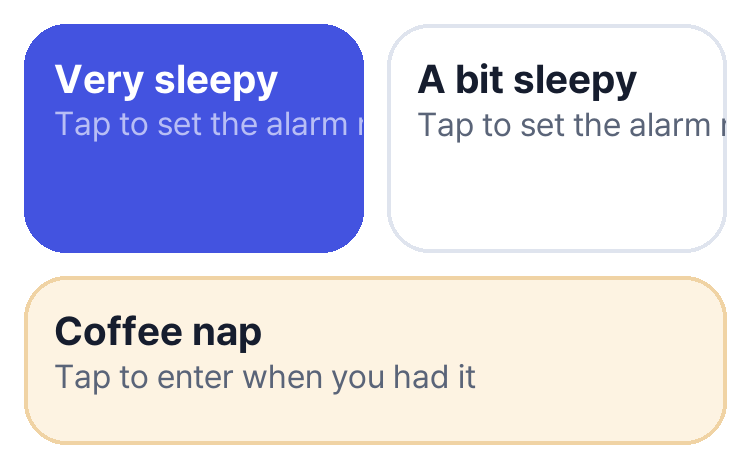
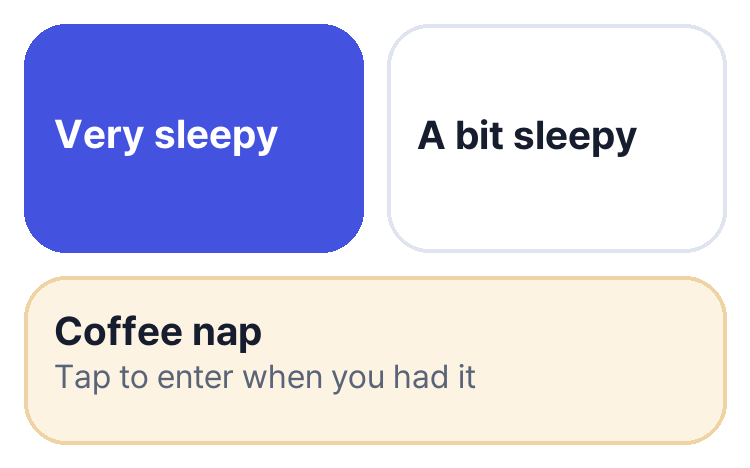
feat: simplify widget labels and hints
- M(4x2)/L(4x3) 위젯의 fast/slow 버튼에서 힌트 텍스트 제거, 제목만 남김.
  실측(Pretendard 11sp 기준 버튼 텍스트 가용폭 93dp)으로 기존 힌트가
  129dp라 항상 잘렸던 문제 해결. S(단독 버튼, 가용폭 144dp)와 L의 커피
  버튼(단독 풀폭, 214dp — 동작이 "시각 입력"이라 설명 필요)은 힌트 유지.
  widget_tap_hint_nap/coffee 문자열 키는 S/L에서 계속 쓰여 고아 안 됨.
- 위젯 3종 이름을 옛 모드명("바로 낮잠"/"2가지"/"3가지") 대신 버튼 개수
  기준("1/2/3버튼 위젯")으로 통일 — previewLayout이 실제 버튼을 보여주므로
  이름은 "어느 크기인지"만 알려주면 충분하다는 판단.
- previewImage PNG(assets/widget-previews)를 M/L 힌트 제거된 모습으로
  재생성, REVIEW_NEEDED.md의 영어 라벨 갱신.

실기기(Galaxy S24+) 검증: 위젯 선택 화면에서 새 라벨 3종 확인, M/L
미리보기가 힌트 없이 제목만 중앙 정렬된 모습으로 렌더링됨. M 위젯을
실제 홈 화면에 배치해 텍스트 잘림 없음 확인, 버튼 탭 → 앱이 열리고
알람이 즉시 예약(수면 화면까지 정상 진입)되는 것까지 회귀 없음 확인.

diff --git a/plugins/withHomeScreenWidgets.js b/plugins/withHomeScreenWidgets.js
@@ -104,8 +104,23 @@ function writeDrawables(resDir) {
 // JS(latency 설정)에 있어 네이티브 위젯 얼굴에서 그대로 보여줄 수 없다. 스코프 결정상
 // "잔여시간 표시 없음"이라 숫자 없는 고정 안내 문구로 대체했다 — REVIEW_NEEDED 참고).
 
+// detailRes가 null이면 힌트 TextView 자체를 생략한다 — M/L처럼 버튼이 좁아
+// 힌트가 잘리거나(실측: M/L 버튼 텍스트 가용폭 93dp인데 기존 힌트는 129dp) 버튼이
+// 2~3개라 같은 문구가 반복돼 노이즈가 되는 경우(사용자 지시). 제목만 남기면
+// gravity="center_vertical"이 남은 TextView 하나를 그대로 세로 중앙 정렬한다.
 function napButton(id, bg, titleColor, detailColor, titleRes, detailRes, weightWrap, marginEndDp = 0) {
   const marginXml = marginEndDp ? `\n            android:layout_marginEnd="${marginEndDp}dp"` : '';
+  const detailXml = detailRes
+    ? `
+            <TextView
+                android:layout_width="match_parent"
+                android:layout_height="wrap_content"
+                android:layout_marginTop="2dp"
+                android:text="@string/${detailRes}"
+                android:textColor="${detailColor}"
+                android:textSize="11sp"
+                android:maxLines="1" />`
+    : '';
   return `        <LinearLayout
             android:id="@+id/${id}"
             android:layout_width="0dp"
@@ -122,23 +137,22 @@ function napButton(id, bg, titleColor, detailColor, titleRes, detailRes, weightW
                 android:textColor="${titleColor}"
                 android:textSize="13.5sp"
                 android:textStyle="bold"
-                android:maxLines="2" />
-            <TextView
-                android:layout_width="match_parent"
-                android:layout_height="wrap_content"
-                android:layout_marginTop="2dp"
-                android:text="@string/${detailRes}"
-                android:textColor="${detailColor}"
-                android:textSize="11sp"
-                android:maxLines="1" />
+                android:maxLines="2" />${detailXml}
         </LinearLayout>
 `;
 }
 
+// S 전용 — 단독 버튼이라 여백이 있어(가용폭 144dp > 힌트 129dp) 힌트를 그대로 유지.
 const FAST_BTN = (id, weight, marginEndDp = 0) =>
   napButton(id, 'widget_btn_primary_bg', '#FFFFFF', COLOR.onDarkFaint, 'widget_fast_title', 'widget_tap_hint_nap', weight, marginEndDp);
+// M/L 전용 — 힌트 없음(버튼 2~3개가 나란히 있어 좁고, previewLayout이 실제 버튼
+// 모습을 이미 보여주므로 "탭하면 시작"은 대체로 자명하다는 판단, 사용자 지시).
+const FAST_BTN_COMPACT = (id, weight, marginEndDp = 0) =>
+  napButton(id, 'widget_btn_primary_bg', '#FFFFFF', COLOR.onDarkFaint, 'widget_fast_title', null, weight, marginEndDp);
 const SLOW_BTN = (id, weight) =>
-  napButton(id, 'widget_btn_secondary_bg', COLOR.ink, COLOR.inkSoft, 'widget_slow_title', 'widget_tap_hint_nap', weight);
+  napButton(id, 'widget_btn_secondary_bg', COLOR.ink, COLOR.inkSoft, 'widget_slow_title', null, weight);
+// L 전용 — 단독 풀폭 버튼(가용폭 214dp)이라 안 잘리고, 동작이 "탭=시각 입력"이라
+// 다른 버튼과 달리 설명이 필요해 힌트를 유지.
 const COFFEE_BTN = (id, weight) =>
   napButton(id, 'widget_btn_coffee_bg', COLOR.ink, COLOR.inkSoft, 'widget_coffee_title', 'widget_tap_hint_coffee', weight);
 
@@ -169,7 +183,7 @@ function buildLayoutM() {
         android:layout_width="match_parent"
         android:layout_height="match_parent"
         android:orientation="horizontal">
-${FAST_BTN('widget_btn_fast', 1, 8)}${SLOW_BTN('widget_btn_slow', 1)}    </LinearLayout>
+${FAST_BTN_COMPACT('widget_btn_fast', 1, 8)}${SLOW_BTN('widget_btn_slow', 1)}    </LinearLayout>
 `;
   return shellLayout(row, 94);
 }
@@ -184,7 +198,7 @@ function buildLayoutL() {
         android:layout_weight="1"
         android:layout_marginBottom="8dp"
         android:orientation="horizontal">
-${FAST_BTN('widget_btn_fast', 1, 8)}${SLOW_BTN('widget_btn_slow', 1)}    </LinearLayout>
+${FAST_BTN_COMPACT('widget_btn_fast', 1, 8)}${SLOW_BTN('widget_btn_slow', 1)}    </LinearLayout>
 `;
   const coffeeRow = `    <LinearLayout
         android:layout_width="match_parent"
@@ -298,9 +312,9 @@ const STRINGS_EN = `<resources>
     <string name="widget_coffee_title">Coffee nap</string>
     <string name="widget_tap_hint_nap">Tap to set the alarm now</string>
     <string name="widget_tap_hint_coffee">Tap to enter when you had it</string>
-    <string name="widget_label_s">PowerNap – Quick Nap</string>
-    <string name="widget_label_m">PowerNap – Nap (2 modes)</string>
-    <string name="widget_label_l">PowerNap – Nap (3 modes)</string>
+    <string name="widget_label_s">PowerNap – 1-Button Widget</string>
+    <string name="widget_label_m">PowerNap – 2-Button Widget</string>
+    <string name="widget_label_l">PowerNap – 3-Button Widget</string>
 </resources>
 `;
 
@@ -310,9 +324,9 @@ const STRINGS_KO = `<resources>
     <string name="widget_coffee_title">커피냅</string>
     <string name="widget_tap_hint_nap">탭하면 지금 알람이 맞춰져요</string>
     <string name="widget_tap_hint_coffee">탭하면 마신 시각을 입력해요</string>
-    <string name="widget_label_s">파워냅 – 바로 낮잠</string>
-    <string name="widget_label_m">파워냅 – 낮잠 (2가지)</string>
-    <string name="widget_label_l">파워냅 – 낮잠 (3가지)</string>
+    <string name="widget_label_s">파워냅 – 1버튼 위젯</string>
+    <string name="widget_label_m">파워냅 – 2버튼 위젯</string>
+    <string name="widget_label_l">파워냅 – 3버튼 위젯</string>
 </resources>
 `;
 
